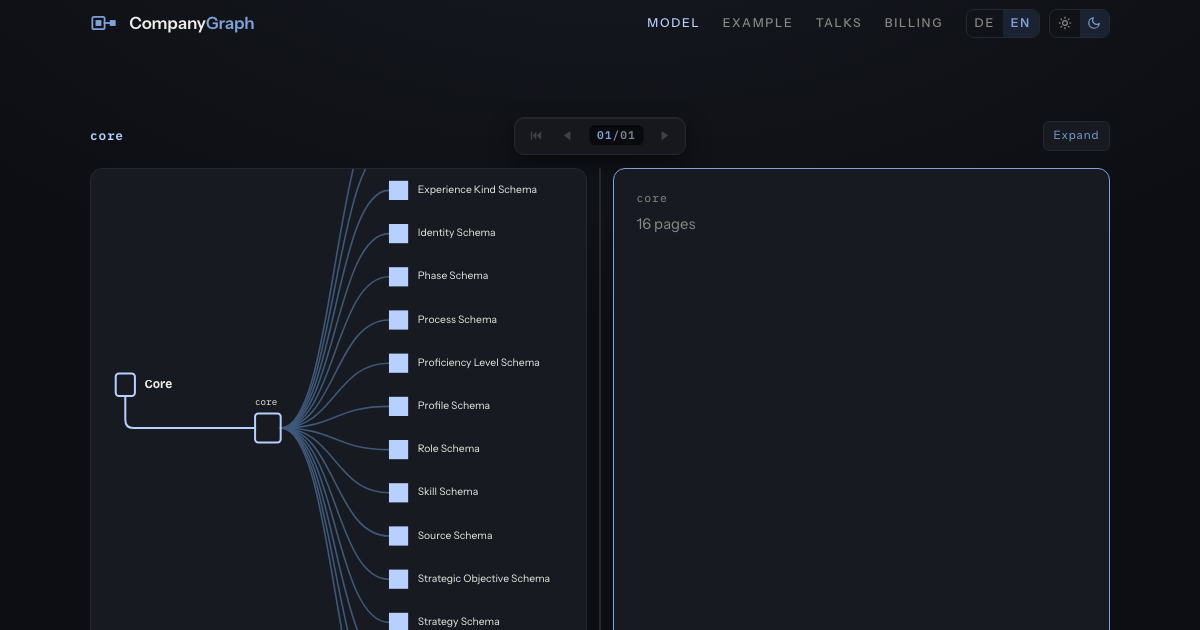
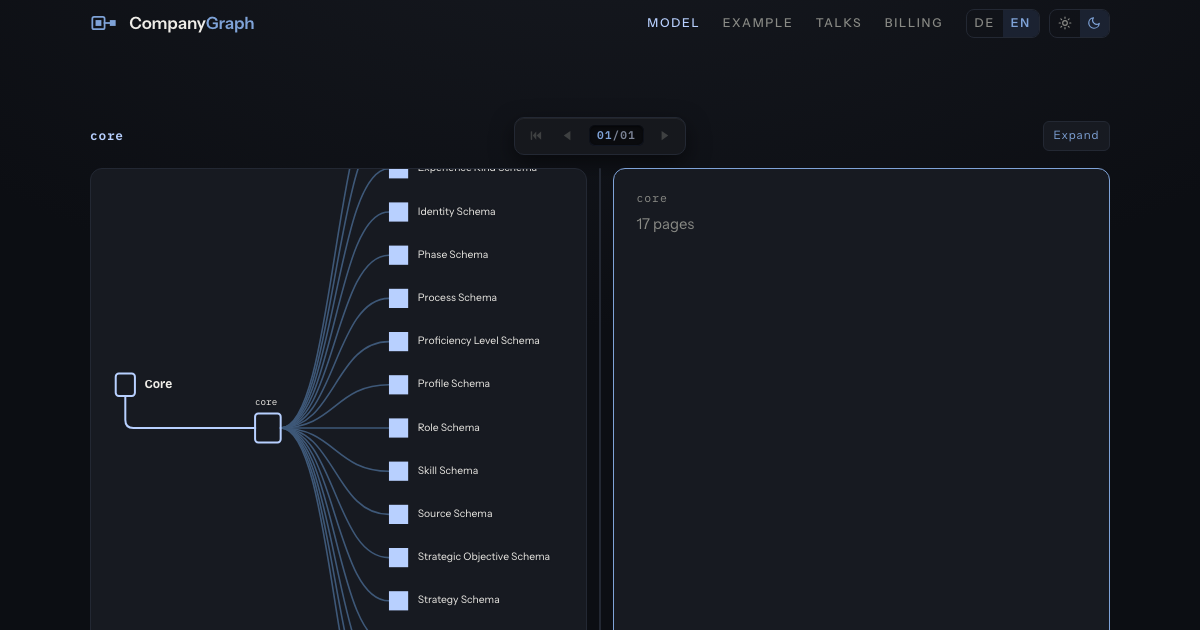
The site takes meta-model v0.33.0, where a track is an entity
Core 0.33.0 makes a track an entity its process owns: a file holding its
name and what it produces, listed by name in the process's Tracks table
and named by a phase's headings under Activities. The content pin in
source.json and the parser pin move to v0.33.0 together, as they have for
every release. The example gains its two tracks and the edges to them, the
model gains the track type with its owner and the two references core now
declares to it, and the model page's structured data is rendered again
from them.

Nothing here was written for it. No page or script names a type, so the
new entities and the new type are drawn by what was already there. The
example and model cards are the page and the page gained entities, so
those two images move with their stamps; the talk card that re-rendered to
other bytes with no stamp change is left as it was. The sitemap dates the
two pages that changed.

Verified: the lockfile resolves companygraph-meta-model to a8e99e9, the
commit v0.33.0 names, and the installed package reads that version;
build:check, pages:check, sitemap:check, design:check, og:check,
pin:check, test:og, test:build, test:d3, verify against a local server and
sh conventions/conventions-sync check, conventions-check and
conventions-format all exit 0.

Changed region(s): [[0.2467, 0.2714, 0.4625, 1.0], [0.5242, 0.3317, 0.5858, 0.3619]]

diff --git a/model/index.html b/model/index.html
@@ -106,7 +106,7 @@
           "name": "Achievement Kind Schema",
           "description": "Required structure for achievement kind files.",
           "termCode": "achievement-kind",
-          "url": "https://github.com/companygraph/meta-model/blob/59200e06f8b006a6702b6e84c60057d4db75bbfd/core/achievement-kind-schema.md",
+          "url": "https://github.com/companygraph/meta-model/blob/a8e99e9bf94c2f5239a63eee0b5708503941fbb0/core/achievement-kind-schema.md",
           "inDefinedTermSet": {
             "@id": "https://companygraph.io/model/#vocabulary"
           }
@@ -117,7 +117,7 @@
           "name": "Experience Schema",
           "description": "Required structure for experience files.",
           "termCode": "experience",
-          "url": "https://github.com/companygraph/meta-model/blob/59200e06f8b006a6702b6e84c60057d4db75bbfd/core/experience-schema.md",
+          "url": "https://github.com/companygraph/meta-model/blob/a8e99e9bf94c2f5239a63eee0b5708503941fbb0/core/experience-schema.md",
           "inDefinedTermSet": {
             "@id": "https://companygraph.io/model/#vocabulary"
           }
@@ -128,7 +128,7 @@
           "name": "Experience Kind Schema",
           "description": "Required structure for experience kind files.",
           "termCode": "experience-kind",
-          "url": "https://github.com/companygraph/meta-model/blob/59200e06f8b006a6702b6e84c60057d4db75bbfd/core/experience-kind-schema.md",
+          "url": "https://github.com/companygraph/meta-model/blob/a8e99e9bf94c2f5239a63eee0b5708503941fbb0/core/experience-kind-schema.md",
           "inDefinedTermSet": {
             "@id": "https://companygraph.io/model/#vocabulary"
           }
@@ -139,7 +139,7 @@
           "name": "Identity Schema",
           "description": "Required structure for the identity file — who the company is.",
           "termCode": "identity",
-          "url": "https://github.com/companygraph/meta-model/blob/59200e06f8b006a6702b6e84c60057d4db75bbfd/core/identity-schema.md",
+          "url": "https://github.com/companygraph/meta-model/blob/a8e99e9bf94c2f5239a63eee0b5708503941fbb0/core/identity-schema.md",
           "inDefinedTermSet": {
             "@id": "https://companygraph.io/model/#vocabulary"
           }
@@ -150,7 +150,7 @@
           "name": "Phase Schema",
           "description": "Required structure for phase files.",
           "termCode": "phase",
-          "url": "https://github.com/companygraph/meta-model/blob/59200e06f8b006a6702b6e84c60057d4db75bbfd/core/phase-schema.md",
+          "url": "https://github.com/companygraph/meta-model/blob/a8e99e9bf94c2f5239a63eee0b5708503941fbb0/core/phase-schema.md",
           "inDefinedTermSet": {
             "@id": "https://companygraph.io/model/#vocabulary"
           }
@@ -161,7 +161,7 @@
           "name": "Process Schema",
           "description": "Required structure for process files.",
           "termCode": "process",
-          "url": "https://github.com/companygraph/meta-model/blob/59200e06f8b006a6702b6e84c60057d4db75bbfd/core/process-schema.md",
+          "url": "https://github.com/companygraph/meta-model/blob/a8e99e9bf94c2f5239a63eee0b5708503941fbb0/core/process-schema.md",
           "inDefinedTermSet": {
             "@id": "https://companygraph.io/model/#vocabulary"
           }
@@ -172,7 +172,7 @@
           "name": "Proficiency Level Schema",
           "description": "Required structure for proficiency level files.",
           "termCode": "proficiency-level",
-          "url": "https://github.com/companygraph/meta-model/blob/59200e06f8b006a6702b6e84c60057d4db75bbfd/core/proficiency-level-schema.md",
+          "url": "https://github.com/companygraph/meta-model/blob/a8e99e9bf94c2f5239a63eee0b5708503941fbb0/core/proficiency-level-schema.md",
           "inDefinedTermSet": {
             "@id": "https://companygraph.io/model/#vocabulary"
           }
@@ -183,7 +183,7 @@
           "name": "Profile Schema",
           "description": "Required structure for profile files.",
           "termCode": "profile",
-          "url": "https://github.com/companygraph/meta-model/blob/59200e06f8b006a6702b6e84c60057d4db75bbfd/core/profile-schema.md",
+          "url": "https://github.com/companygraph/meta-model/blob/a8e99e9bf94c2f5239a63eee0b5708503941fbb0/core/profile-schema.md",
           "inDefinedTermSet": {
             "@id": "https://companygraph.io/model/#vocabulary"
           }
@@ -194,7 +194,7 @@
           "name": "Role Schema",
           "description": "Required structure for role files.",
           "termCode": "role",
-          "url": "https://github.com/companygraph/meta-model/blob/59200e06f8b006a6702b6e84c60057d4db75bbfd/core/role-schema.md",
+          "url": "https://github.com/companygraph/meta-model/blob/a8e99e9bf94c2f5239a63eee0b5708503941fbb0/core/role-schema.md",
           "inDefinedTermSet": {
             "@id": "https://companygraph.io/model/#vocabulary"
           }
@@ -205,7 +205,7 @@
           "name": "Skill Schema",
           "description": "Required structure for skill files.",
           "termCode": "skill",
-          "url": "https://github.com/companygraph/meta-model/blob/59200e06f8b006a6702b6e84c60057d4db75bbfd/core/skill-schema.md",
+          "url": "https://github.com/companygraph/meta-model/blob/a8e99e9bf94c2f5239a63eee0b5708503941fbb0/core/skill-schema.md",
           "inDefinedTermSet": {
             "@id": "https://companygraph.io/model/#vocabulary"
           }
@@ -216,7 +216,7 @@
           "name": "Source Schema",
           "description": "Required structure for source files.",
           "termCode": "source",
-          "url": "https://github.com/companygraph/meta-model/blob/59200e06f8b006a6702b6e84c60057d4db75bbfd/core/source-schema.md",
+          "url": "https://github.com/companygraph/meta-model/blob/a8e99e9bf94c2f5239a63eee0b5708503941fbb0/core/source-schema.md",
           "inDefinedTermSet": {
             "@id": "https://companygraph.io/model/#vocabulary"
           }
@@ -227,7 +227,7 @@
           "name": "Strategic Objective Schema",
           "description": "Required structure for strategic objective files.",
           "termCode": "strategic-objective",
-          "url": "https://github.com/companygraph/meta-model/blob/59200e06f8b006a6702b6e84c60057d4db75bbfd/core/strategic-objective-schema.md",
+          "url": "https://github.com/companygraph/meta-model/blob/a8e99e9bf94c2f5239a63eee0b5708503941fbb0/core/strategic-objective-schema.md",
           "inDefinedTermSet": {
             "@id": "https://companygraph.io/model/#vocabulary"
           }
@@ -238,7 +238,7 @@
           "name": "Strategy Schema",
           "description": "Required structure for strategy files.",
           "termCode": "strategy",
-          "url": "https://github.com/companygraph/meta-model/blob/59200e06f8b006a6702b6e84c60057d4db75bbfd/core/strategy-schema.md",
+          "url": "https://github.com/companygraph/meta-model/blob/a8e99e9bf94c2f5239a63eee0b5708503941fbb0/core/strategy-schema.md",
           "inDefinedTermSet": {
             "@id": "https://companygraph.io/model/#vocabulary"
           }
@@ -249,7 +249,18 @@
           "name": "Surface Schema",
           "description": "Required structure for surface files.",
           "termCode": "surface",
-          "url": "https://github.com/companygraph/meta-model/blob/59200e06f8b006a6702b6e84c60057d4db75bbfd/core/surface-schema.md",
+          "url": "https://github.com/companygraph/meta-model/blob/a8e99e9bf94c2f5239a63eee0b5708503941fbb0/core/surface-schema.md",
+          "inDefinedTermSet": {
+            "@id": "https://companygraph.io/model/#vocabulary"
+          }
+        },
+        {
+          "@type": "DefinedTerm",
+          "@id": "https://companygraph.io/model/#term-track",
+          "name": "Track Schema",
+          "description": "Required structure for track files.",
+          "termCode": "track",
+          "url": "https://github.com/companygraph/meta-model/blob/a8e99e9bf94c2f5239a63eee0b5708503941fbb0/core/track-schema.md",
           "inDefinedTermSet": {
             "@id": "https://companygraph.io/model/#vocabulary"
           }
@@ -260,7 +271,7 @@
           "name": "Value Schema",
           "description": "Required structure for value files.",
           "termCode": "value",
-          "url": "https://github.com/companygraph/meta-model/blob/59200e06f8b006a6702b6e84c60057d4db75bbfd/core/value-schema.md",
+          "url": "https://github.com/companygraph/meta-model/blob/a8e99e9bf94c2f5239a63eee0b5708503941fbb0/core/value-schema.md",
           "inDefinedTermSet": {
             "@id": "https://companygraph.io/model/#vocabulary"
           }
@@ -271,7 +282,7 @@
           "name": "Vision Schema",
           "description": "Required structure for the vision file — the future the company is working toward.",
           "termCode": "vision",
-          "url": "https://github.com/companygraph/meta-model/blob/59200e06f8b006a6702b6e84c60057d4db75bbfd/core/vision-schema.md",
+          "url": "https://github.com/companygraph/meta-model/blob/a8e99e9bf94c2f5239a63eee0b5708503941fbb0/core/vision-schema.md",
           "inDefinedTermSet": {
             "@id": "https://companygraph.io/model/#vocabulary"
           }
